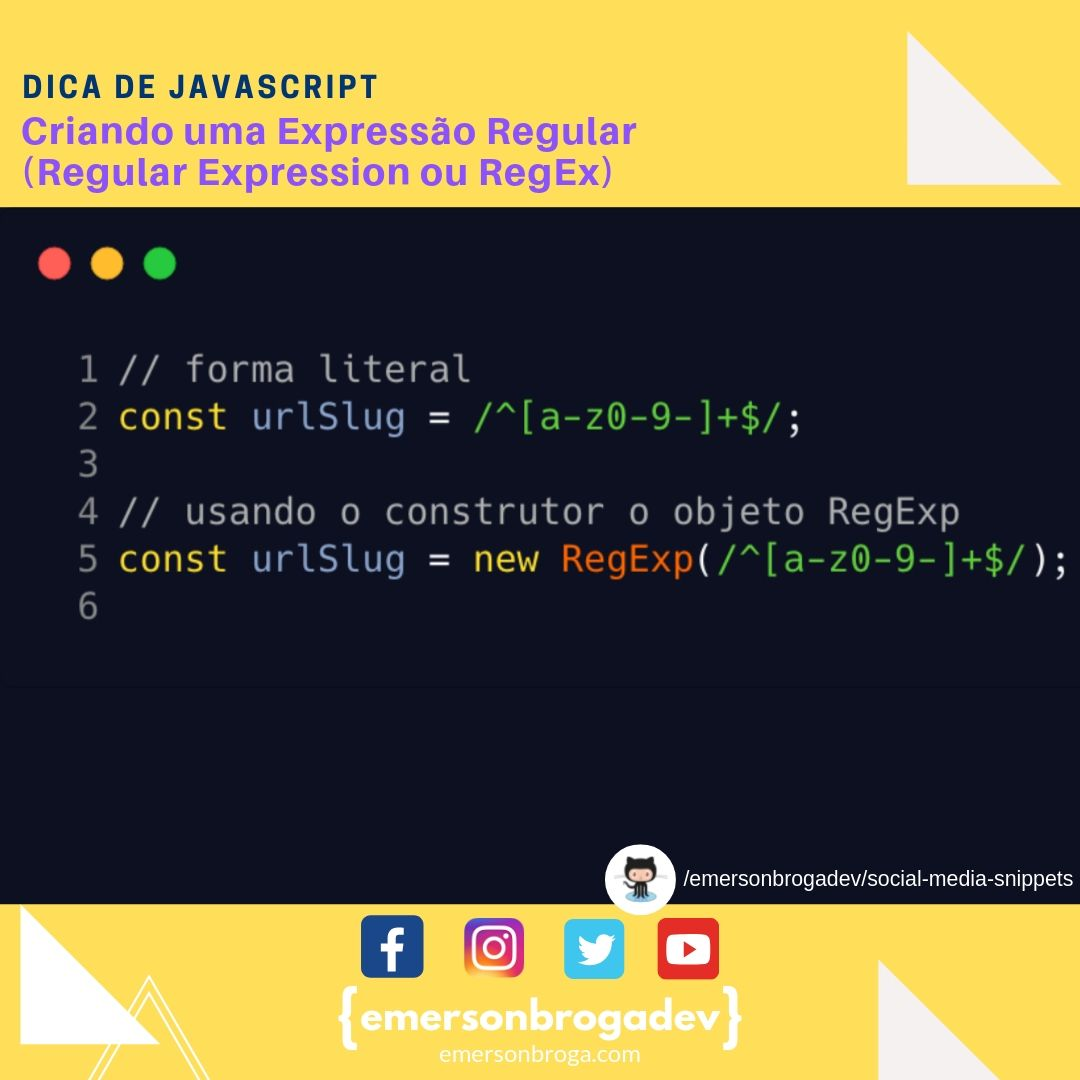
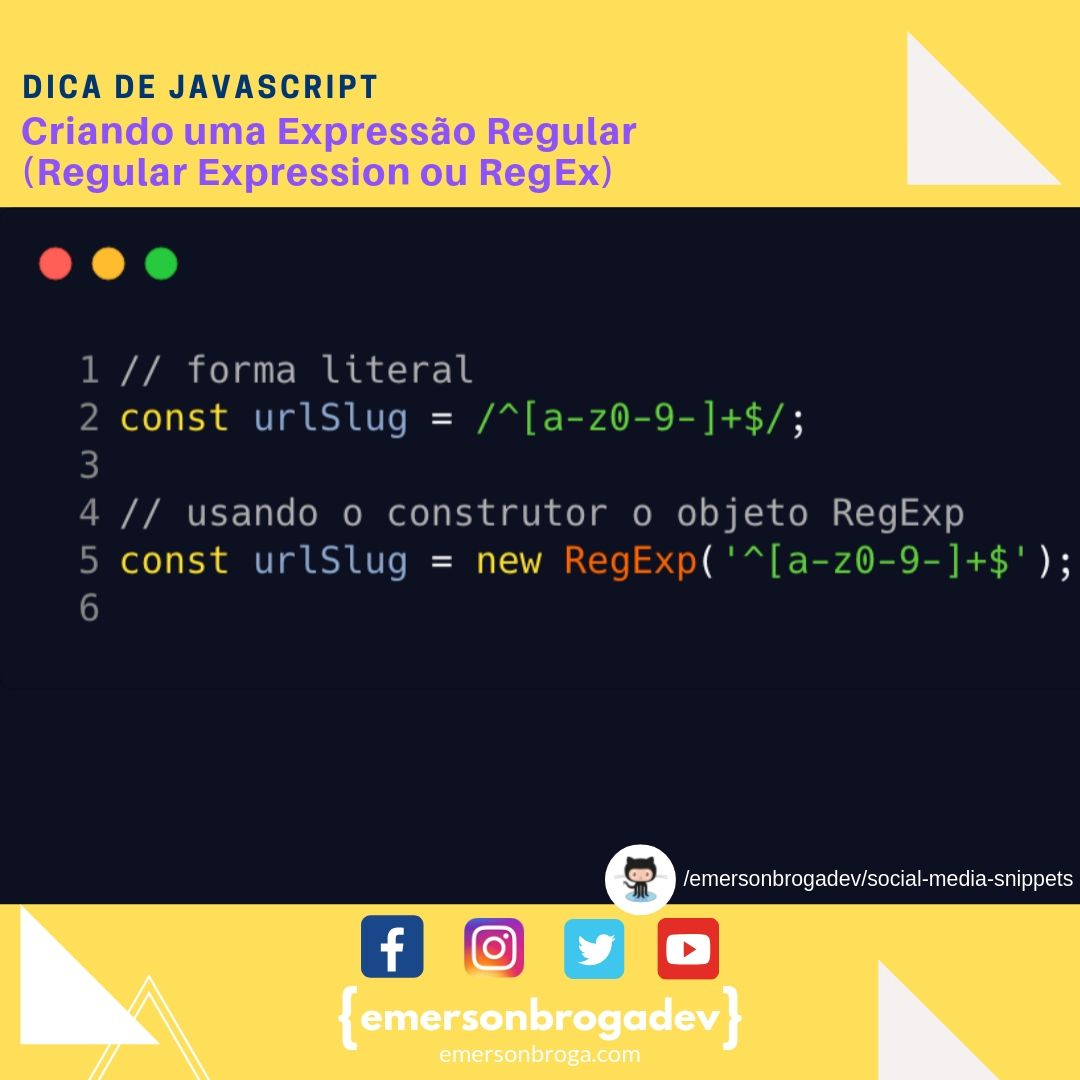
Updated image.

Changed region(s): [[0.0611, 0.3361, 1.0, 0.5806]]

diff --git a/content/2019-08-15-creating-regex/README.md b/content/2019-08-15-creating-regex/README.md
@@ -11,7 +11,7 @@
 const urlSlug = /^[a-z0-9-]+$/;
 
 // usando o construtor o objeto RegExp
-const urlSlug = new RegExp(/^[a-z0-9-]+$/);
+const urlSlug = new RegExp('^[a-z0-9-]+$');
 
 ```
 
@@ -26,7 +26,7 @@ const urlSlug = /^[a-z0-9-]+$/;
 Uma outra forma de criar uma regex é usando o construtor do objeto RegExp:
 
 ```js
-const urlSlug = new RegExp(/^[a-z0-9-]+$/);
+const urlSlug = new RegExp('^[a-z0-9-]+$');
 ```
 
 Perceba que ao criar a sua regex usando o construtor, você não precisa de colocar entre barras.
@@ -35,6 +35,20 @@ Uma recomendação é de se usar o construtor quando por exemplo você estiver p
 de uma fonte externa, como o vinda de um usuário.
 
 Espero que tenham gostado!
+
+=== Errata: ====
+
+Nas redes sociais eu publiquei uma imagem com erro, corrigi a imagem aqui no github mas nas redes sociais não é possível atualizar a imagem da postagem, então segue aqui a correção.
+
+Na imagem eu mostro:
+
+const urlSlug = new RegExp(/^[a-z0-9-]+$/);
+
+enquanto na verdade deveria ser:
+
+const urlSlug = new RegExp('^[a-z0-9-]+$');
+
+=== /Errata: ====
 
 \#javascript \#nodejs \#react
 
